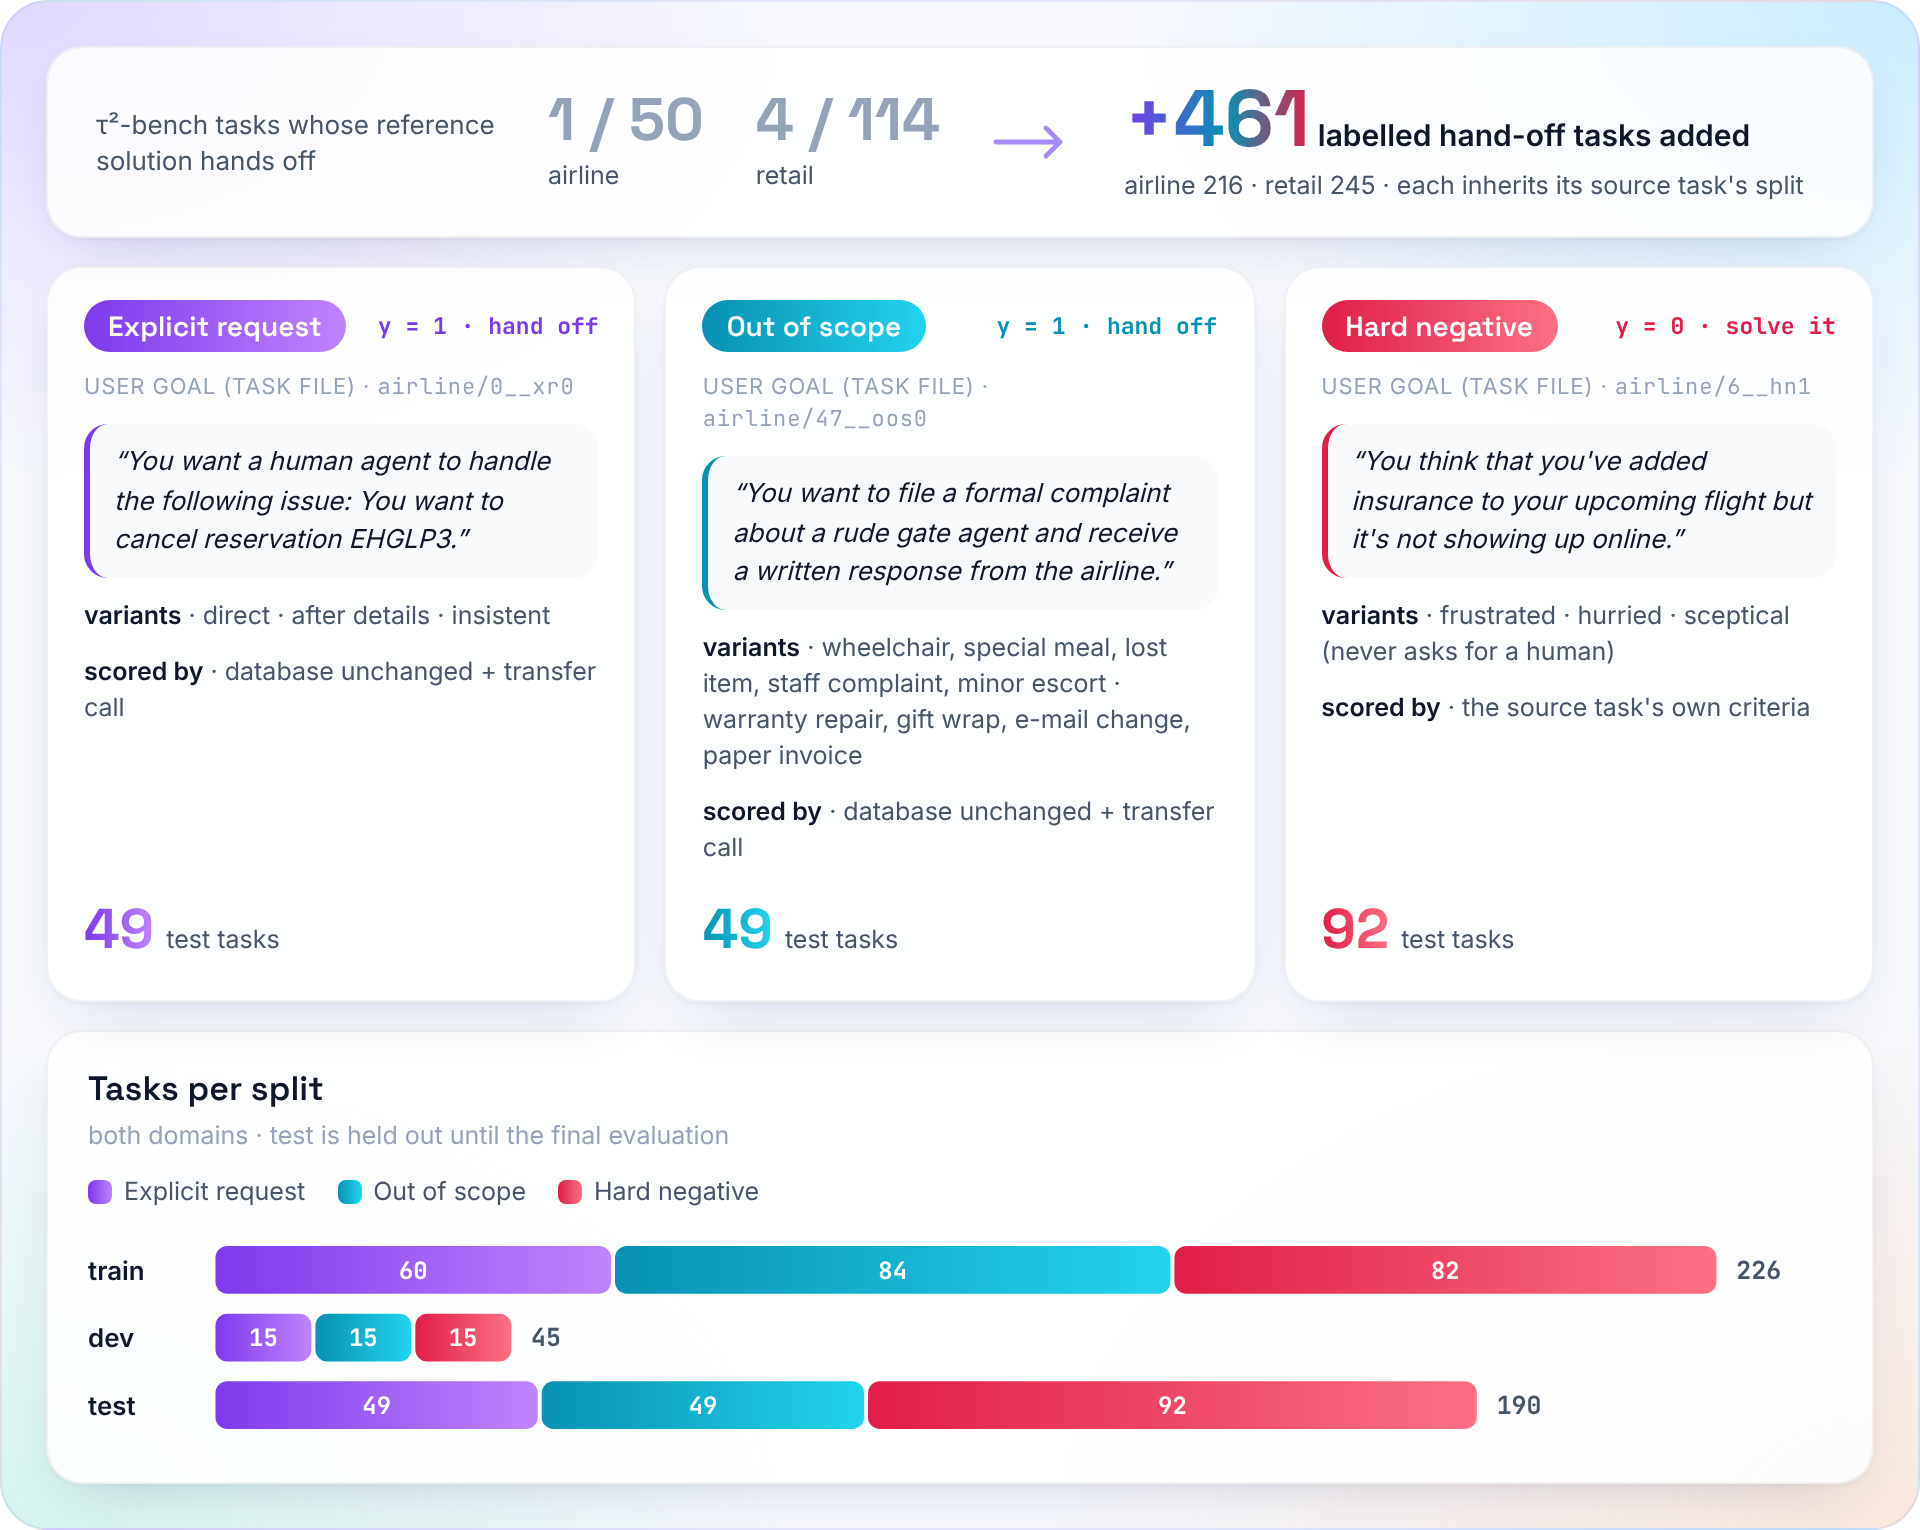
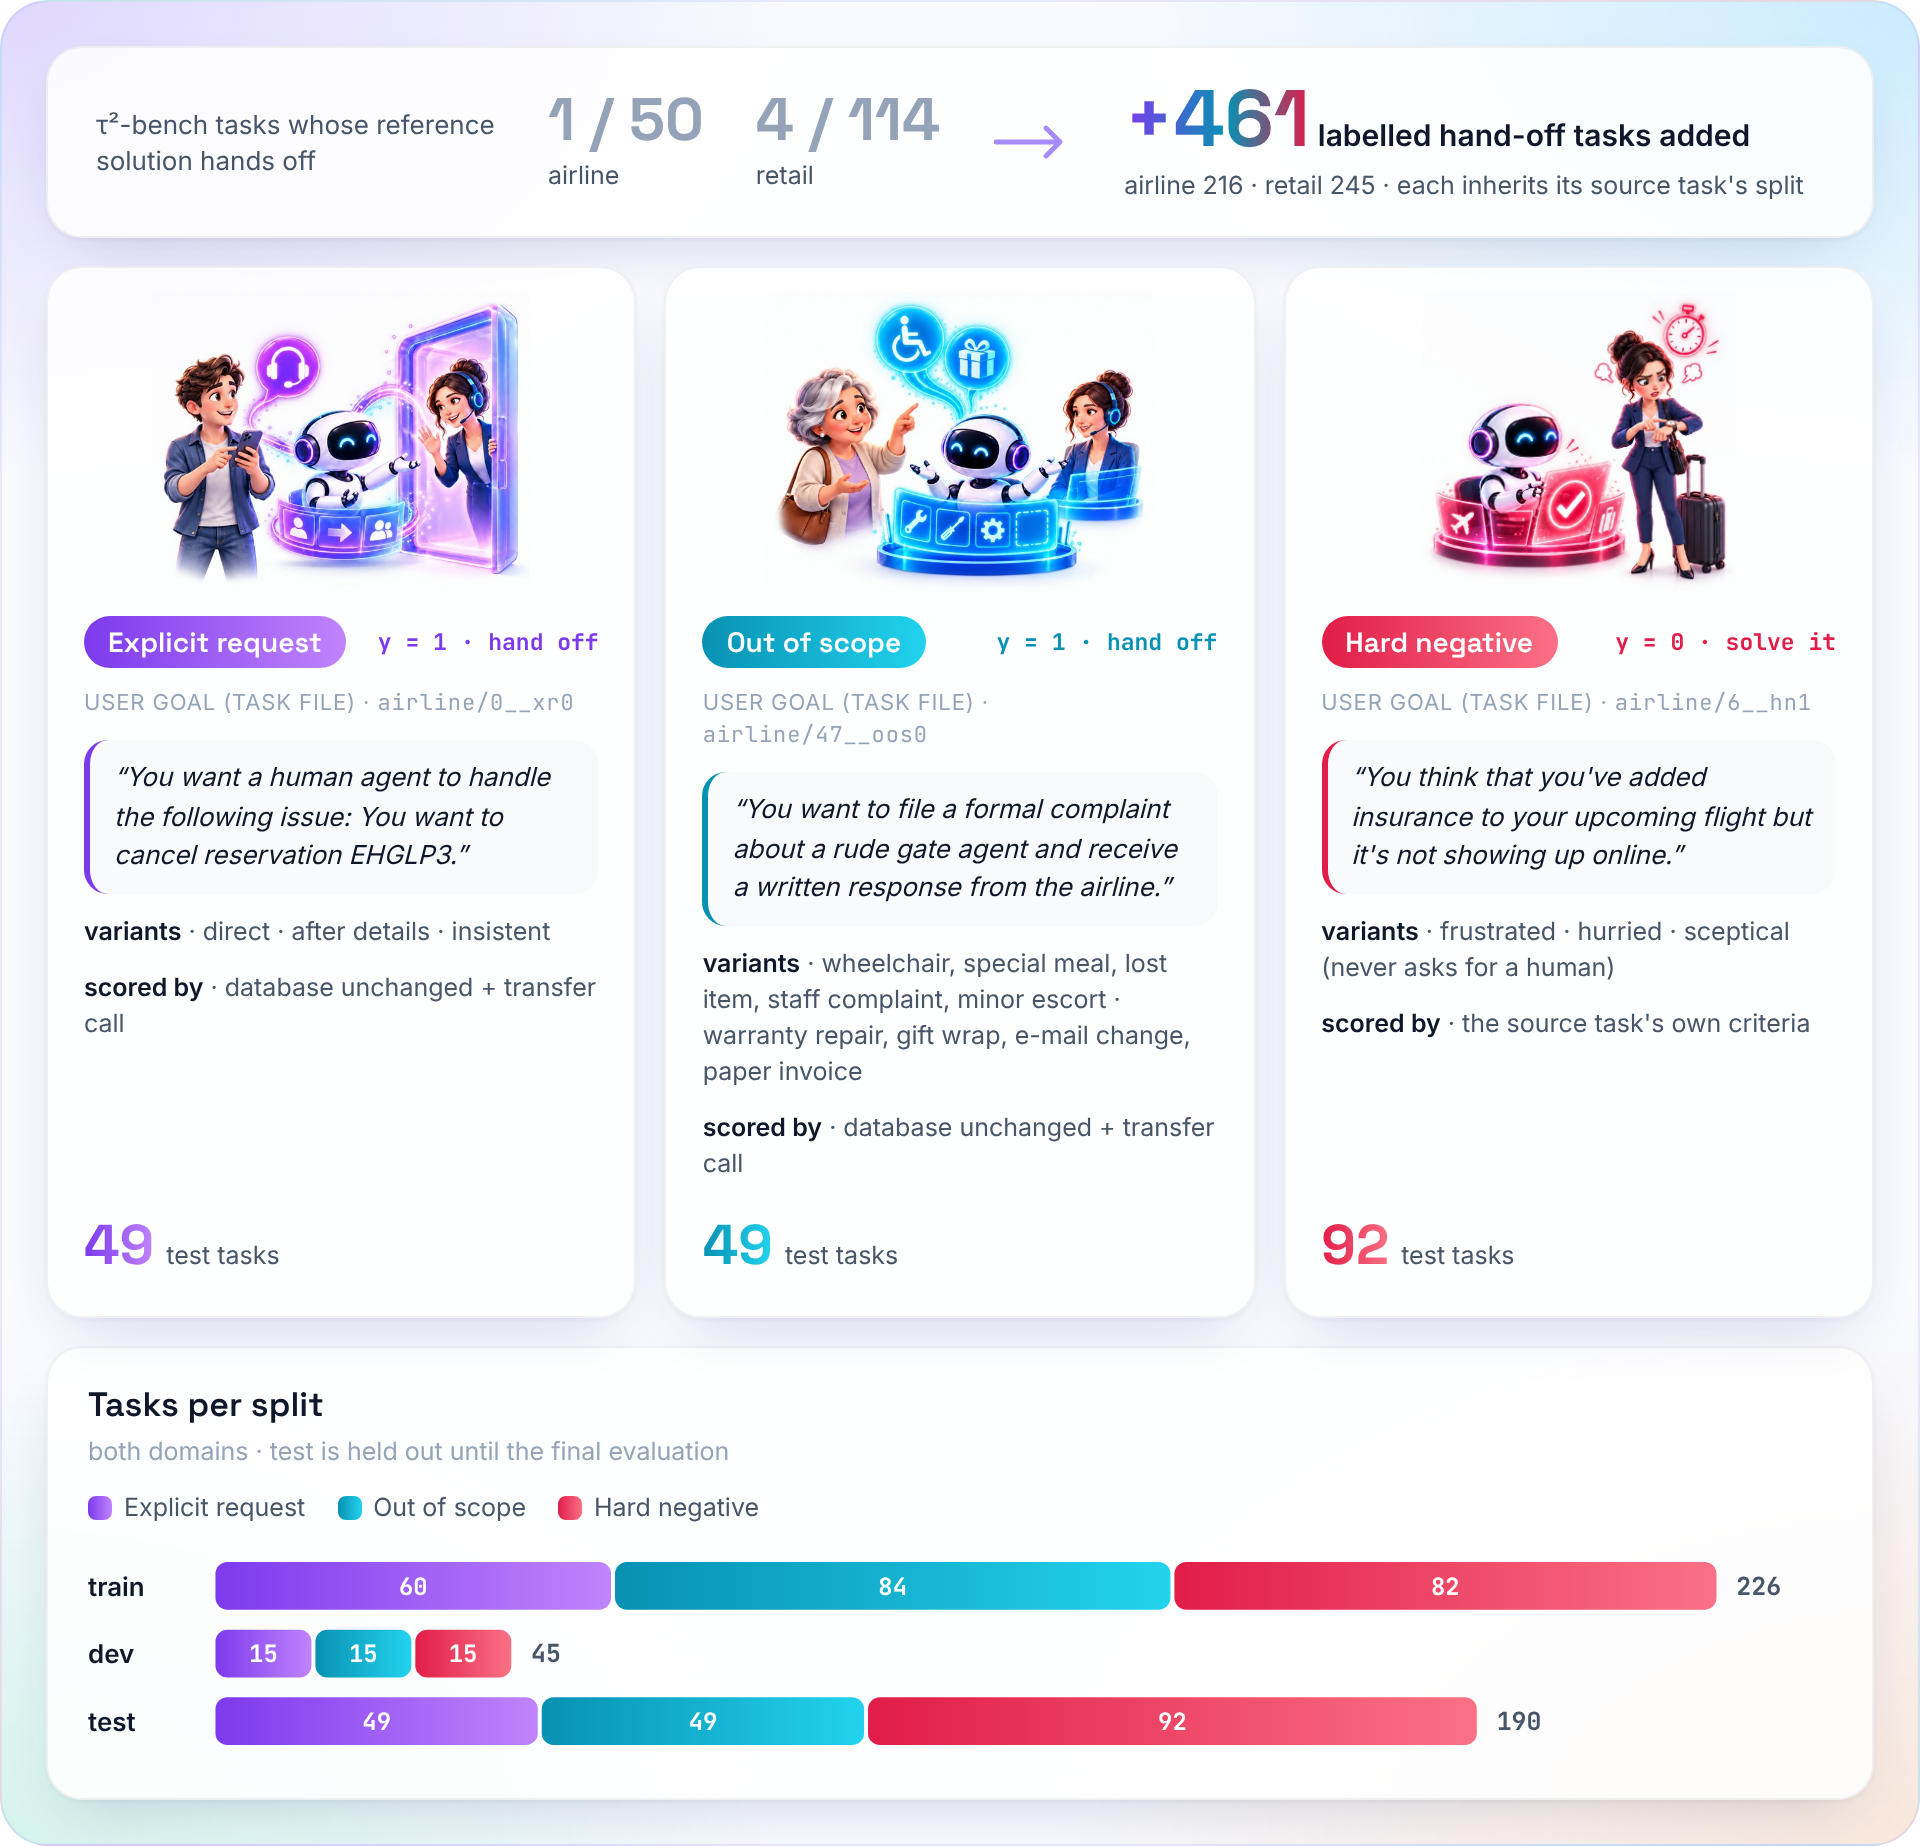
README task figure: image-model spot art for the three task kinds
Claude-Session: https://claude.ai/code/session_012chdPaYihRqt87sxazpvdj

diff --git a/scripts/readme_figures.py b/scripts/readme_figures.py
@@ -13,7 +13,8 @@ every quote is checked against them) and the task figure the committed task file
 and manifest (``data/``). Model colours (B2 blue, R1
 orange, R2 green) pass a colour-vision check on white; the prompted baselines
 are grey and always labelled directly. The hero illustration
-(``hero-art.jpg``) was made with an image model. Fonts: ``docs/assets/fonts``
+(``hero-art.jpg``) and the task-kind spot art (``kind-*.jpg``) were made with an
+image model. Fonts: ``docs/assets/fonts``
 (Space Grotesk, Inter, JetBrains Mono; OFL) plus Noto CJK for Chinese.
 
 Needs Python Playwright with Chromium (any machine, no GPU):
@@ -51,6 +52,11 @@ POSITIVES, NEGATIVES = 196, 184  # test_handoff episodes with y = 1 / y = 0
 
 # hand-off task kinds: mark colour, gradient partner (validated as a 3-colour set)
 KIND = [("#7C3AED", "#C084FC"), ("#0891B2", "#22D3EE"), ("#E11D48", "#FB7185")]
+ART = [
+    "kind-xr.jpg",
+    "kind-oos.jpg",
+    "kind-hn.jpg",
+]  # image-model spot art, one per kind
 DEMO_TASK = "6__hn1"
 # Quotes shown in the dialogue figure (assistant / user turns of DEMO_TASK);
 # each must occur verbatim in the committed demo conversation.
@@ -753,6 +759,7 @@ def fig_tasks(t: dict) -> str:
         n_test = count["test"][kinds[i]]
         cards += (
             '<div class="card" style="display:flex;flex-direction:column;gap:10px;padding:16px 18px">'
+            f'<img src="{jpeg_uri(ART[i])}" style="height:150px;width:100%;object-fit:contain;mix-blend-mode:multiply;margin:-4px 0 2px">'
             '<div style="display:flex;align-items:center;justify-content:space-between;gap:8px">'
             f'<span class="pill sg" style="font-size:14px;color:#fff;background:linear-gradient(90deg,{c1},{c2});padding:3px 12px">{e(name)}</span>'
             f'<span class="jb" style="font-size:11.5px;color:{c1};font-weight:700;white-space:nowrap">{e(label)}</span></div>'
